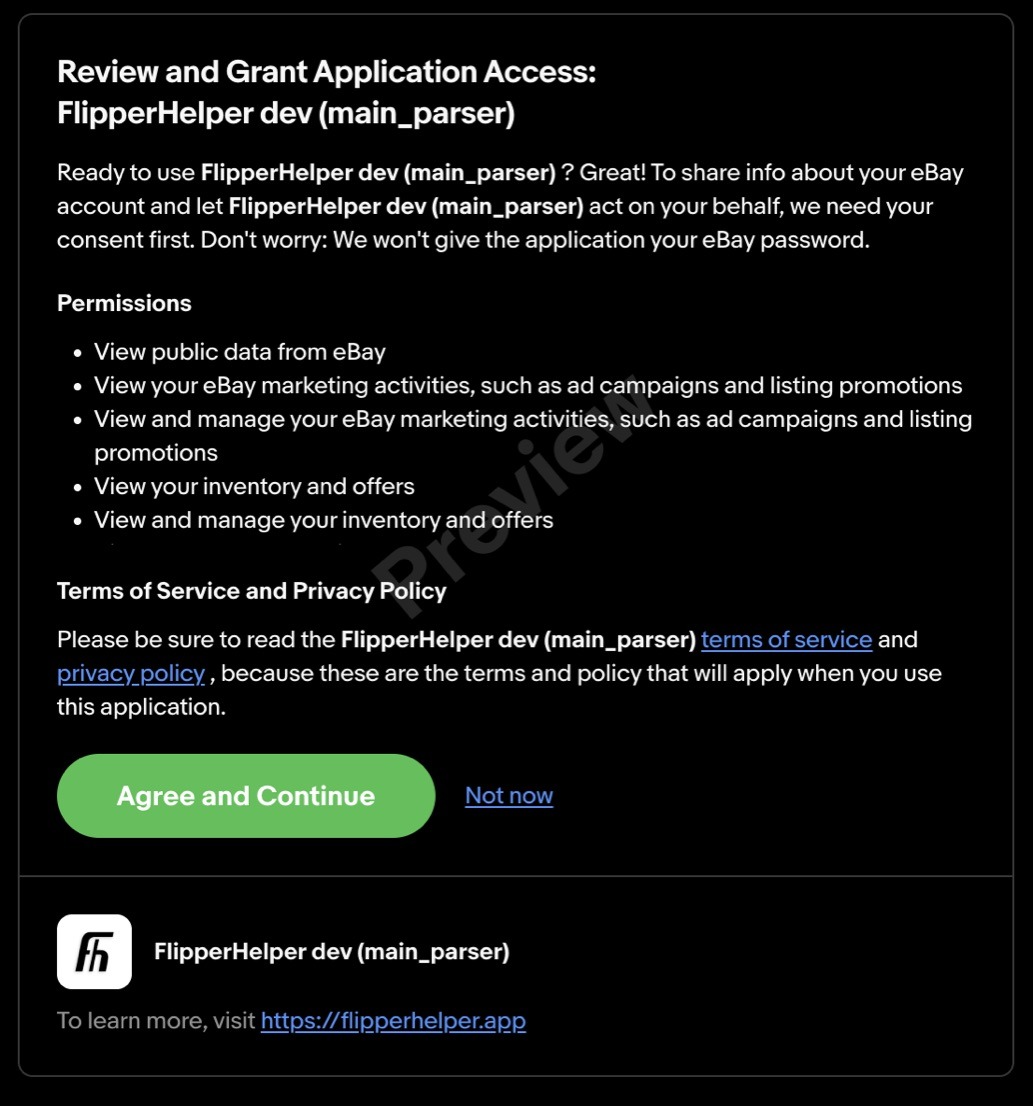
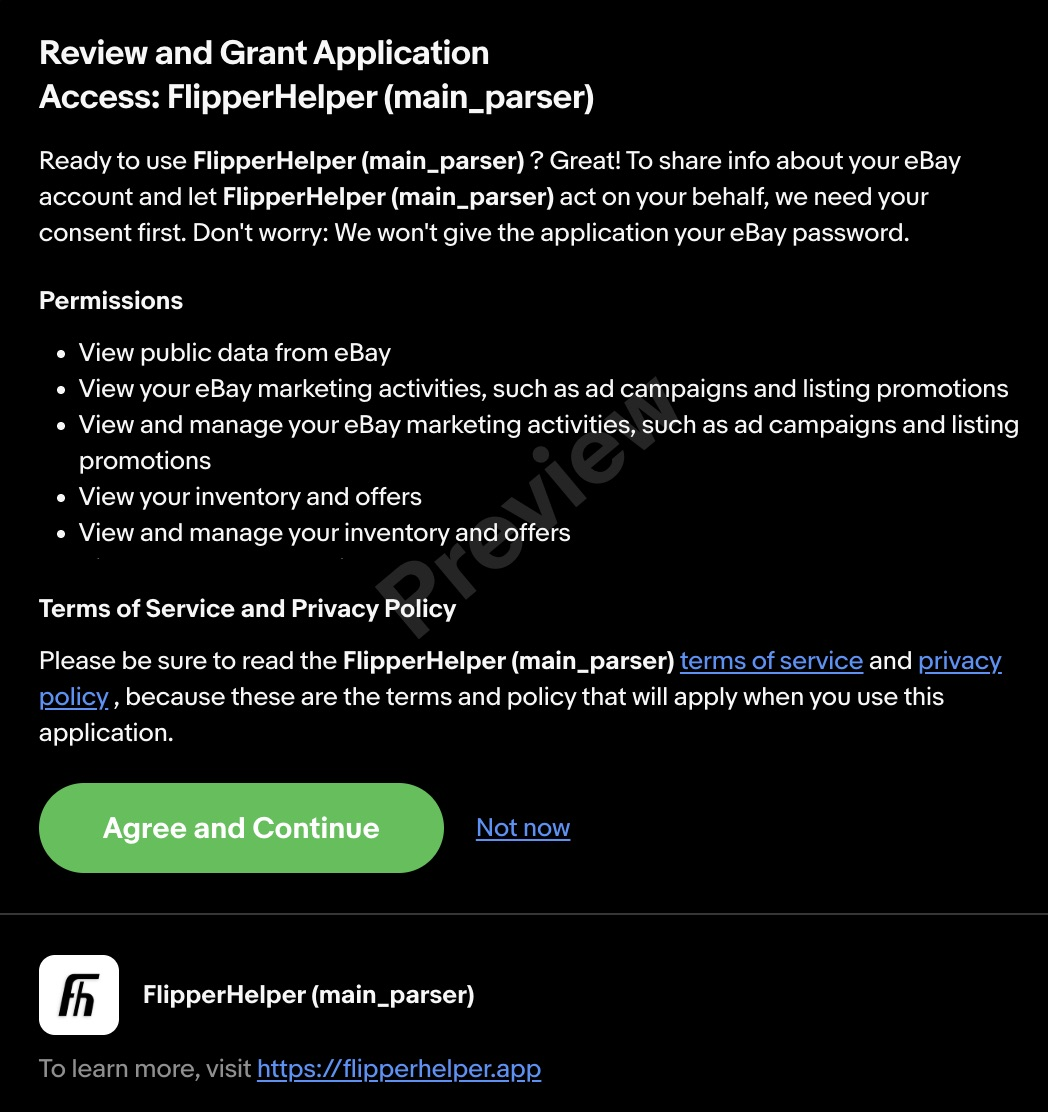
Use the dashboard as the Pro launch post image and the live eBay app name
Point og:image, twitter:image and the Article image at the web portal
dashboard screenshot. Replace the eBay consent screenshot with the one that
shows the production app name, FlipperHelper (main_parser).

Changed region(s): [[0.031, 0.0307, 0.9913, 0.9837], [0.9603, 0.7993, 0.9913, 0.83], [0.0, 0.7993, 0.031, 0.83]]

diff --git a/blog/flipperhelper-pro-launch.html b/blog/flipperhelper-pro-launch.html
@@ -15,7 +15,7 @@
 <meta property="og:title" content="FlipperHelper Pro Is Launching: Sync, Teams, eBay and a Web Portal">
 <meta property="og:description" content="Sync between your devices, a team of two, eBay sales that record themselves, and a web portal. The free app stays free.">
 <meta property="og:url" content="https://flipperhelper.app/blog/flipperhelper-pro-launch.html">
-<meta property="og:image" content="https://flipperhelper.app/logo_FH.png">
+<meta property="og:image" content="https://flipperhelper.app/blog/images/flipperhelper-web-portal-dashboard.jpg">
 <meta property="og:site_name" content="FlipperHelper">
 <meta property="og:locale" content="en_GB">
 <meta property="article:published_time" content="2026-11-22">
@@ -24,7 +24,7 @@
 <meta name="twitter:card" content="summary">
 <meta name="twitter:title" content="FlipperHelper Pro Is Launching: Sync, Teams, eBay and a Web Portal">
 <meta name="twitter:description" content="Sync between your devices, a team of two, eBay sales that record themselves, and a web portal. The free app stays free.">
-<meta name="twitter:image" content="https://flipperhelper.app/logo_FH.png">
+<meta name="twitter:image" content="https://flipperhelper.app/blog/images/flipperhelper-web-portal-dashboard.jpg">
 <script type="application/ld+json">
 {
   "@context": "https://schema.org",
@@ -57,6 +57,7 @@
   "@type": "Article",
   "headline": "FlipperHelper Pro Is Launching: Sync, Teams, eBay and a Web Portal",
   "description": "What is in FlipperHelper Pro and how it works: sync between devices, teams of two, the eBay connection, the web portal, CSV export, analytics and the free first month.",
+  "image": "https://flipperhelper.app/blog/images/flipperhelper-web-portal-dashboard.jpg",
   "datePublished": "2026-11-22",
   "dateModified": "2026-11-22",
   "author": {
